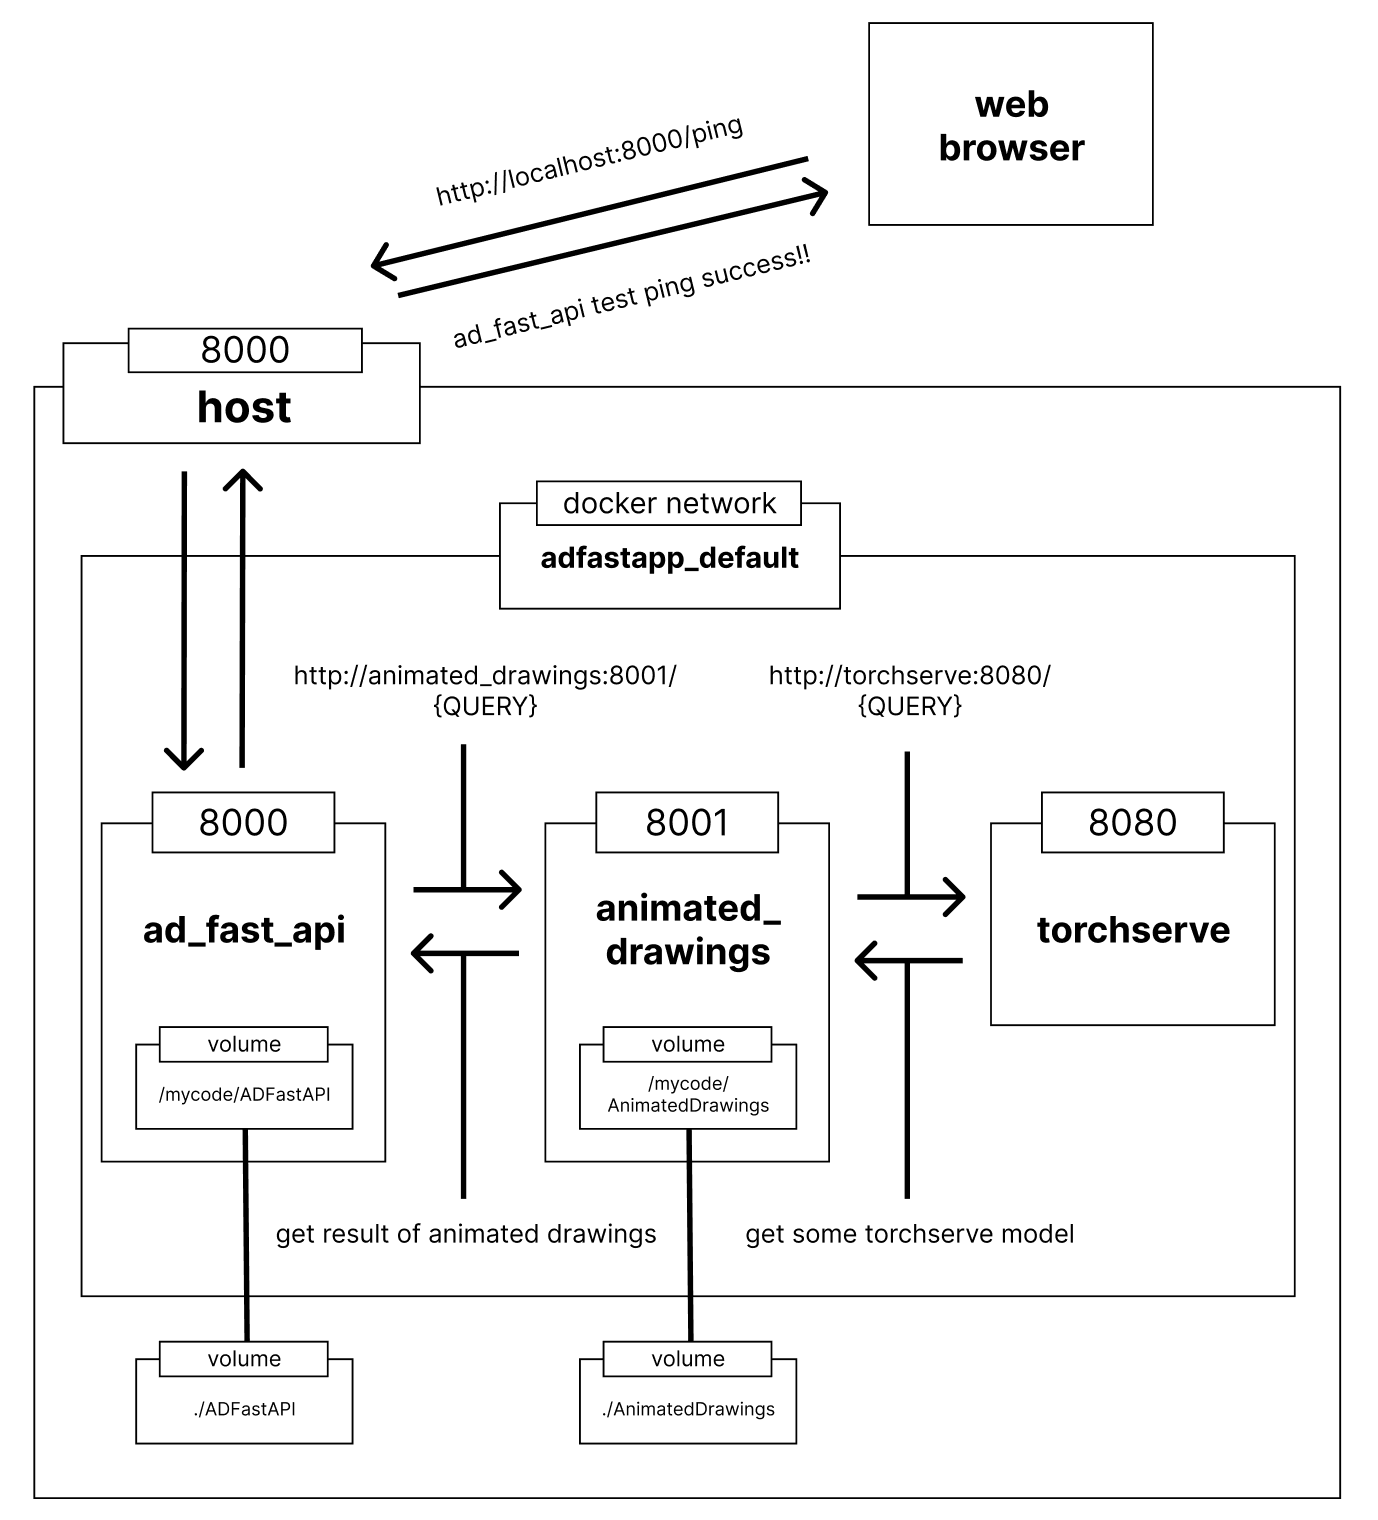
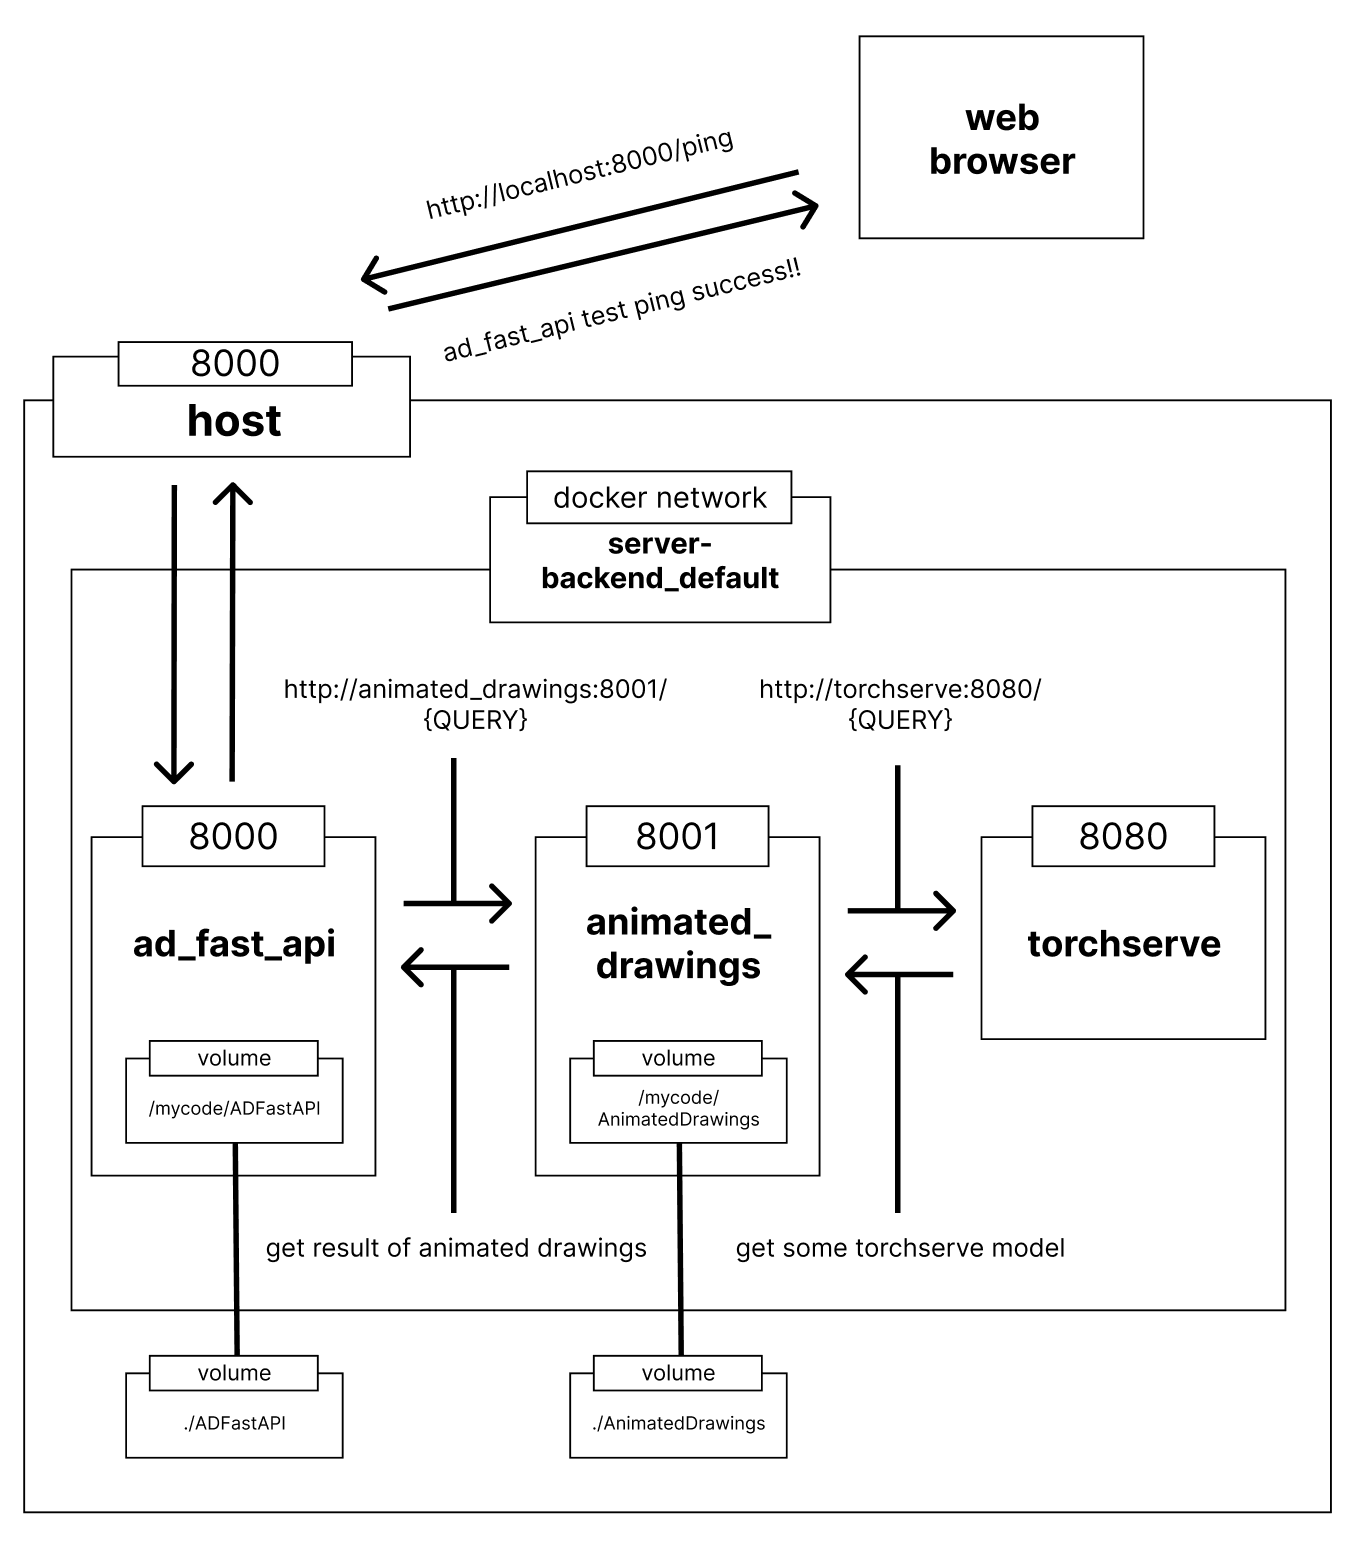
[Refactor] : docker-compose 수정

diff --git a/README.md b/README.md
@@ -19,7 +19,7 @@ cd Server-Backend
 git clone https://github.com/facebookresearch/AnimatedDrawings.git
 cp -R AnimatedDrawings/examples AnimatedDrawings/rest_api
 cp animated_drawings_docker/animated_drawings_api.py AnimatedDrawings/rest_api
-docker-compose up -d
+sudo docker-compose up -d
 
 
 # MODIFY CODE
